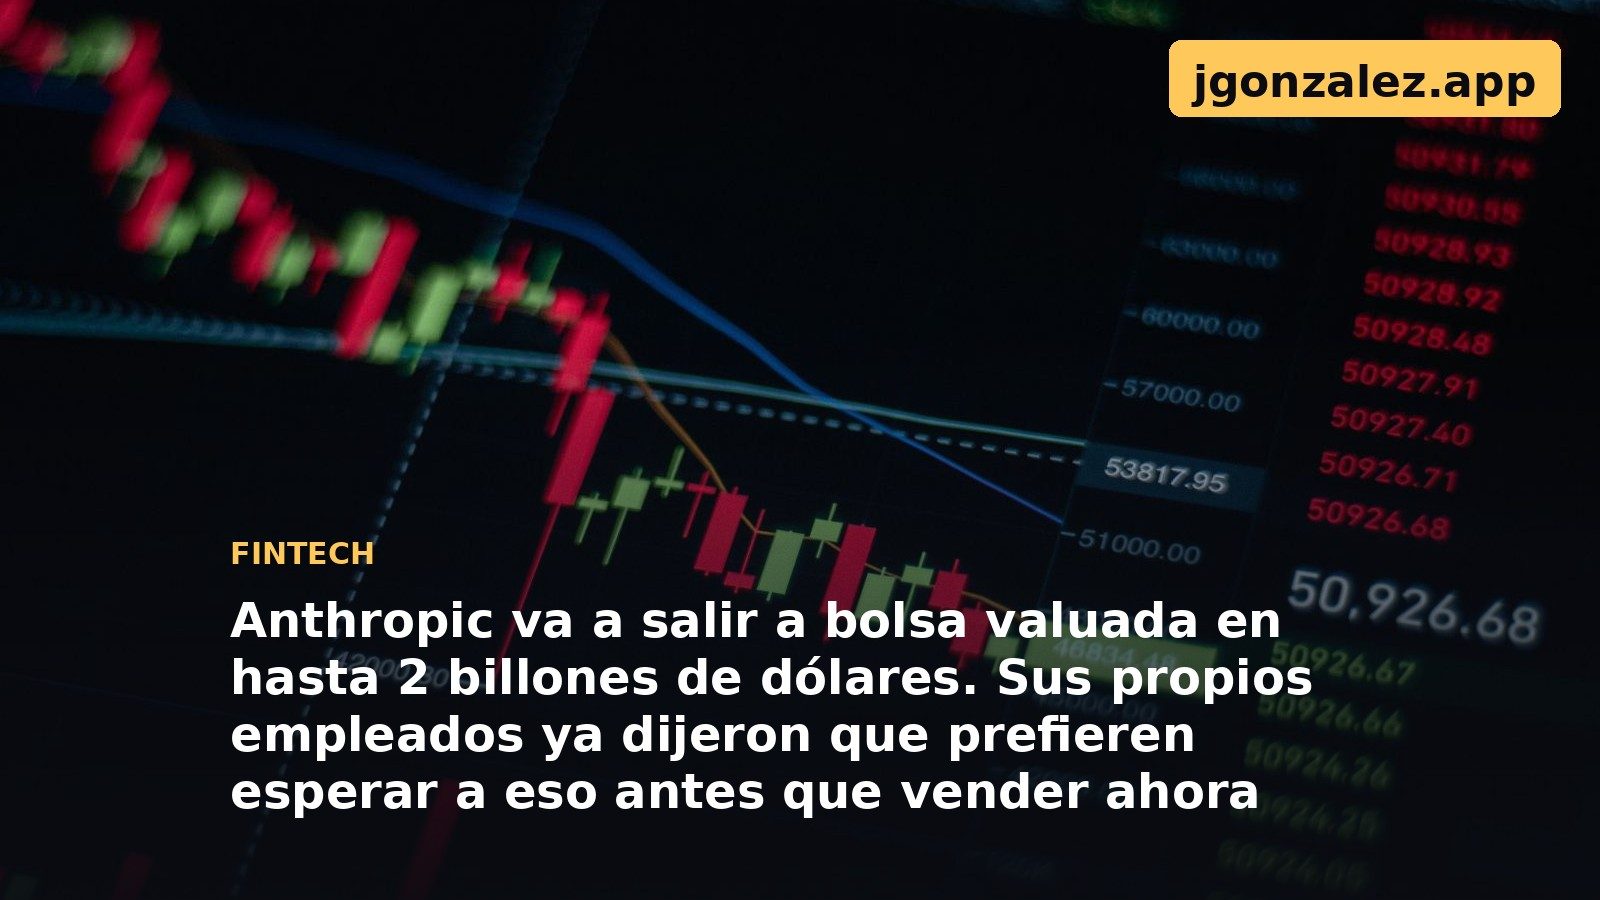
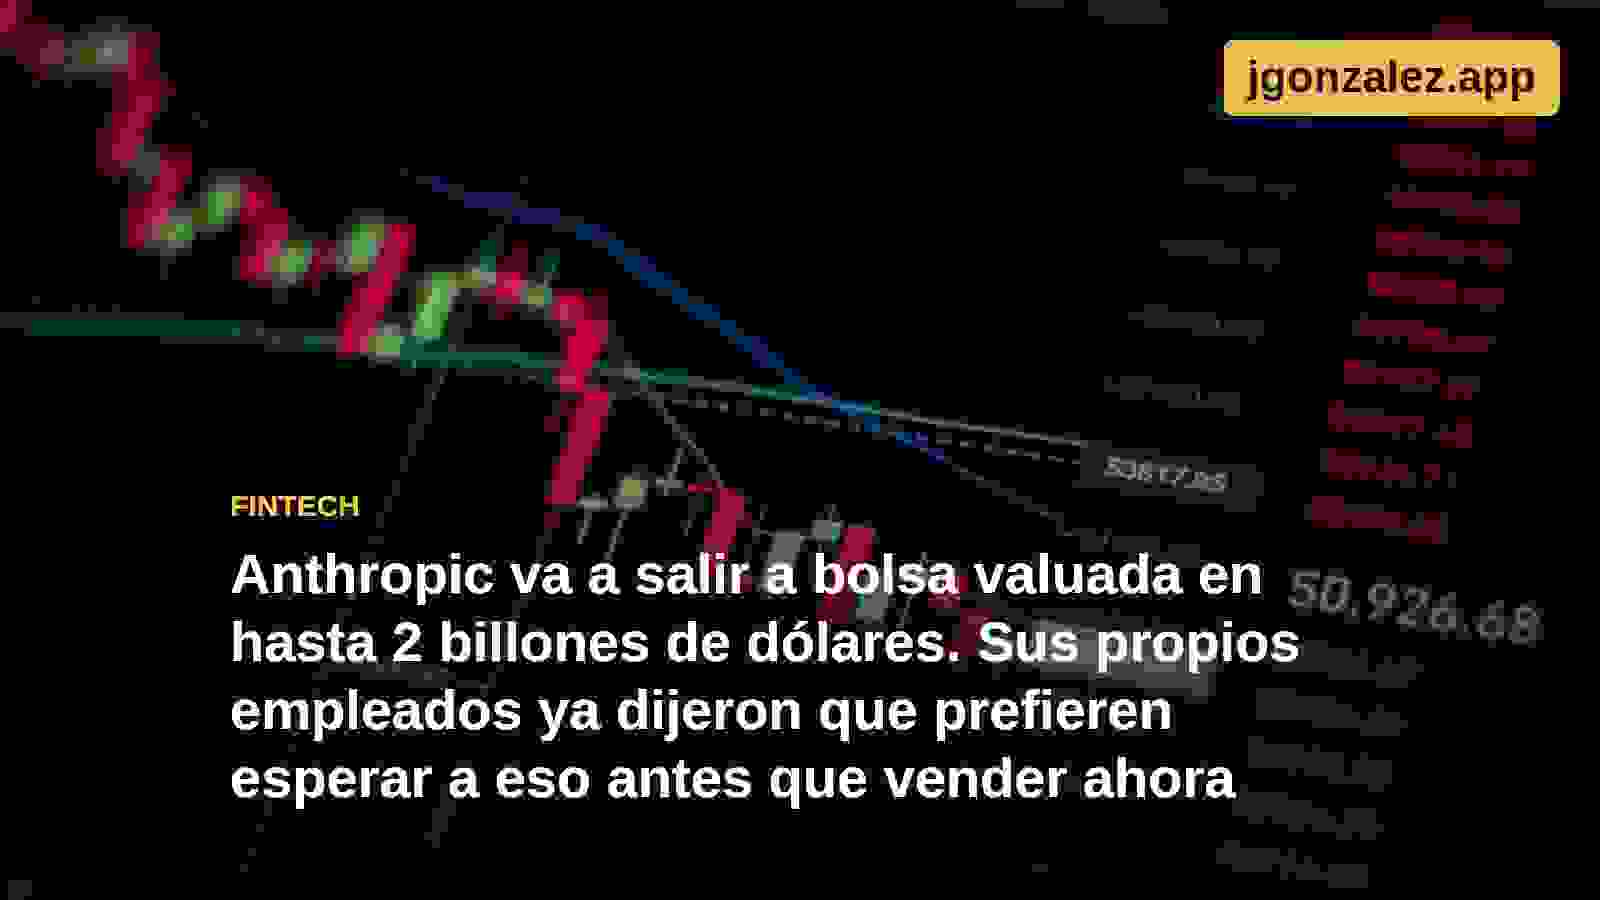
Corrige ruta de portada editada en nota de Anthropic IPO
Claude-Session: https://claude.ai/code/session_01DheQyRbGBsAT1EAfwATtAM

diff --git a/content/blog/anthropic-ipo-2-billones-valuacion-empleados-no-venden.md b/content/blog/anthropic-ipo-2-billones-valuacion-empleados-no-venden.md
@@ -27,7 +27,7 @@ postura:
   pregunta: '¿Que los empleados de Anthropic hayan preferido quedarse con sus acciones en lugar de venderlas en la oferta de recompra es una señal de que genuinamente creen que la empresa vale más de lo que el mercado privado ya le asigna, o es simplemente lo que cualquier empleado haría frente a la presión social y las restricciones típicas de este tipo de ofertas internas?'
   aFavor: 'Quienes trabajan dentro de Anthropic tienen información directa sobre el ritmo real de crecimiento de ingresos, la calidad de los contratos empresariales y la hoja de ruta técnica que ningún inversionista externo puede replicar con la misma profundidad, así que su decisión colectiva de no vender es una señal de convicción genuinamente informada.'
   enContra: 'Las ofertas de recompra para empleados suelen tener condiciones, ventanas de tiempo y presión social que no reflejan una decisión de inversión fría y calculada —muchos empleados simplemente no quieren ser percibidos como los que "no creyeron" en la empresa justo antes de una salida a bolsa que todo el entorno corporativo presenta como inminente y segura.'
-imagen: /blog/portadas/mercado-bursatil-14.jpg
+imagen: /blog/portadas/anthropic-ipo-2-billones-valuacion-empleados-no-venden.jpg
 gancho: 'Anthropic va a salir a bolsa valuada en el doble de lo que valía hace cinco meses. Sus propios empleados tuvieron la oportunidad de vender acciones antes y prefirieron no hacerlo. ¿Es convicción genuina, o es exactamente lo que cualquier empleado haría en esa situación, se justifique o no?'
 socialImagen: /blog/social/anthropic-ipo-2-billones-valuacion-empleados-no-venden.jpg
 ---
